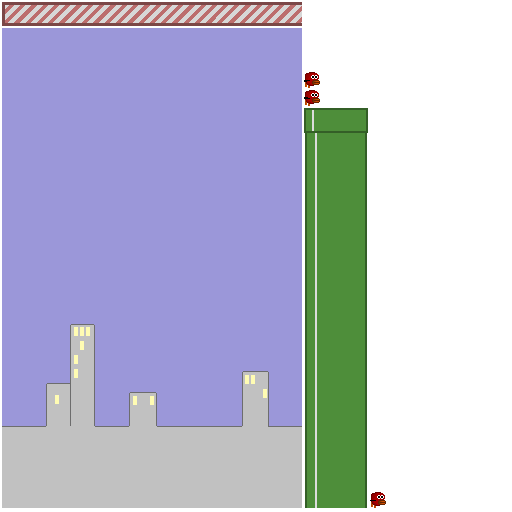
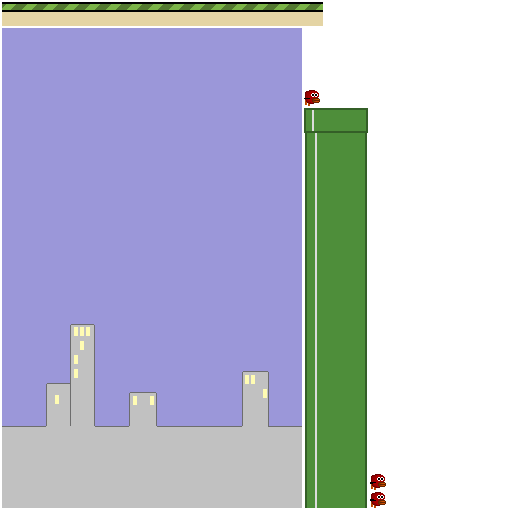
ground improvements

Changed region(s): [[0.0, 0.0, 0.6562, 0.0625], [0.7188, 0.9062, 0.75, 0.9688], [0.5938, 0.125, 0.625, 0.1875]]

diff --git a/core/src/com/barodapride/flappy/Bird.java b/core/src/com/barodapride/flappy/Bird.java
@@ -6,6 +6,10 @@ import com.badlogic.gdx.math.MathUtils;
 import com.badlogic.gdx.math.Rectangle;
 import com.badlogic.gdx.math.Vector2;
 import com.badlogic.gdx.scenes.scene2d.Actor;
+import com.badlogic.gdx.scenes.scene2d.actions.Actions;
+import com.badlogic.gdx.scenes.scene2d.actions.DelayAction;
+import com.badlogic.gdx.scenes.scene2d.actions.RotateToAction;
+import com.badlogic.gdx.scenes.scene2d.actions.SequenceAction;
 import com.badlogic.gdx.scenes.scene2d.utils.Align;
 
 /**
@@ -50,6 +54,16 @@ public class Bird extends Actor {
 
     public void jump() {
         vel.y = JUMP_VELOCITY;
+
+        clearActions();
+
+        RotateToAction a1 = Actions.rotateTo(35, .1f);
+        DelayAction da = Actions.delay(.50f);
+        RotateToAction a2 = Actions.rotateTo(-90, .3f);
+
+        SequenceAction sequenceAction = Actions.sequence(a1, da, a2);
+
+        addAction(sequenceAction);
     }
 
     @Override
@@ -57,10 +71,10 @@ public class Bird extends Actor {
         super.act(delta);
 
         time += delta;
-        region = Assets.birdAnimation.getKeyFrame(time);
 
         switch (state){
             case alive:
+                region = Assets.birdAnimation.getKeyFrame(time);
                 actAlive(delta);
                 break;
             case dead:
@@ -88,10 +102,9 @@ public class Bird extends Actor {
         applyAccel(delta);
         updatePosition(delta);
 
-        setRotation(MathUtils.clamp(vel.y / JUMP_VELOCITY * 45f, -90, 45));
-
         if (isBelowGround()){
             setY(FlappyGame.GROUND_LEVEL);
+            clearActions();
             die();
         }
 
@@ -125,8 +138,14 @@ public class Bird extends Actor {
     }
 
     public void die(){
+
         state = State.dead;
+
         vel.y = 0;
+
+        clearActions();
+        RotateToAction ra = Actions.rotateTo(-90, .15f);
+        addAction(ra);
     }
 
     public Rectangle getBounds() {

diff --git a/core/src/com/barodapride/flappy/GameplayScreen.java b/core/src/com/barodapride/flappy/GameplayScreen.java
@@ -29,9 +29,7 @@ public class GameplayScreen extends ScreenAdapter {
 
     private Image background;
 
-    private Ground ground1;
-    private Ground ground2;
-    private GroundPair groundPair;
+    private Ground ground;
 
     private boolean justTouched;
 
@@ -55,16 +53,14 @@ public class GameplayScreen extends ScreenAdapter {
         initThirdSetOfPipes();
 
         background = new Image(Assets.background);
-        ground1 = new Ground();
-        ground2 = new Ground();
-        ground2.setPosition(FlappyGame.WIDTH, 0);
-        groundPair = new GroundPair(ground1, ground2);
+        ground = new Ground();
+        ground.setPosition(0, 0);
+
 
         // The order actors are added determines the order they are drawn so make sure the background is first
         gameplayStage.addActor(background);
         addPipes(gameplayStage);
-        gameplayStage.addActor(ground1);
-        gameplayStage.addActor(ground2);
+        gameplayStage.addActor(ground);
         gameplayStage.addActor(bird);
 
         // Setup the input processor
@@ -113,7 +109,6 @@ public class GameplayScreen extends ScreenAdapter {
                     justTouched = false;
                 }
                 updatePipePairs();
-                updateGround(delta);
                 gameplayStage.act();
                 checkCollisions();
                 if (bird.getState() == Bird.State.dead){
@@ -151,7 +146,7 @@ public class GameplayScreen extends ScreenAdapter {
     }
 
     private void stopTheGround() {
-        groundPair.stop();
+        ground.vel.x = 0;
     }
 
     private void killPipePairs() {
@@ -161,9 +156,7 @@ public class GameplayScreen extends ScreenAdapter {
         }
     }
 
-    private void updateGround(float delta) {
-        groundPair.update();
-    }
+
 
     private void updatePipePairs() {
         for (int i = 0; i < pipePairs.size; i++) {

diff --git a/core/src/com/barodapride/flappy/Ground.java b/core/src/com/barodapride/flappy/Ground.java
@@ -11,8 +11,8 @@ import com.badlogic.gdx.scenes.scene2d.utils.Align;
  */
 public class Ground extends Actor {
 
-    public static final int WIDTH = 300; // pixels
-    public static final int HEIGHT = 24;
+    public static final float WIDTH = 321f; // pixels
+    public static final float HEIGHT = 24f;
 
     public static final float MOVE_VELOCITY = 120f; // pixels per second
 
@@ -22,6 +22,8 @@ public class Ground extends Actor {
     private TextureRegion region;
 
     private State state;
+
+
 
     private enum State { alive, dead };
 
@@ -53,11 +55,13 @@ public class Ground extends Actor {
 
     private void actAlive(float delta) {
         updatePosition(delta);
+        if (getX() <= -21f){
+            setX(getX() + 21f);
+        }
     }
 
     private void updatePosition(float delta) {
         setX(getX() + vel.x * delta);
-        setY(getY() + vel.y * delta);
     }
 
     @Override

diff --git a/core/src/com/barodapride/flappy/Assets.java b/core/src/com/barodapride/flappy/Assets.java
@@ -37,7 +37,7 @@ public class Assets {
         bird3 = atlas.findRegion("bird3-16x16");
 
         background = atlas.findRegion("background-300x480");
-        ground = atlas.findRegion("ground-300x24");
+        ground = atlas.findRegion("ground-321x24");
         pipe = atlas.findRegion("pipe-64x400");
 
 
